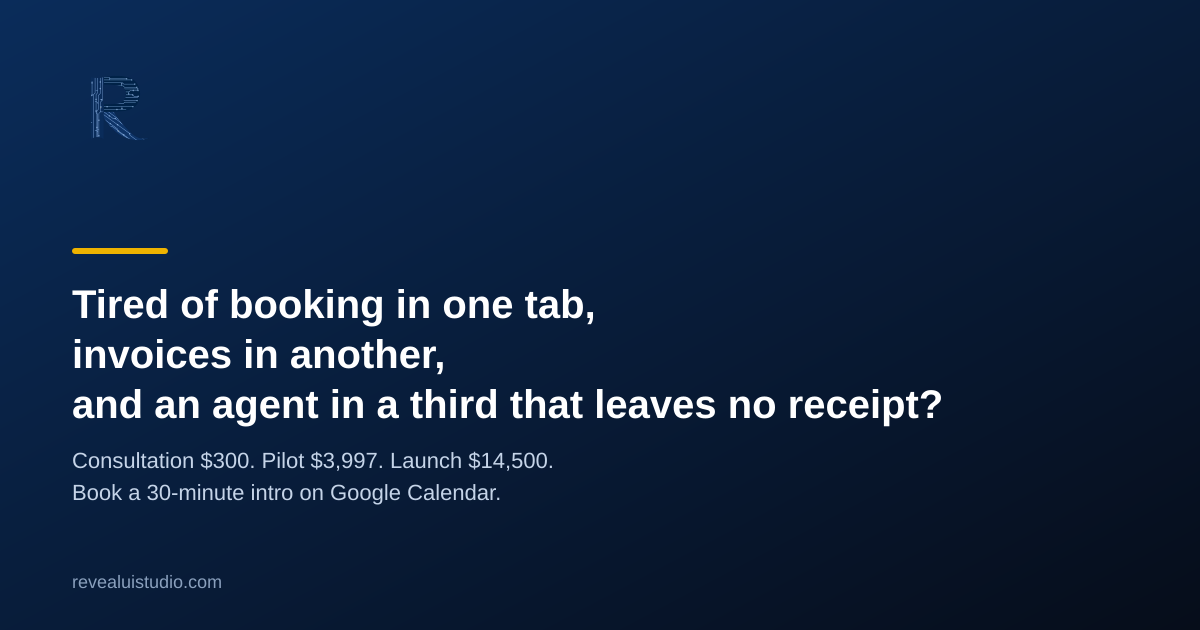
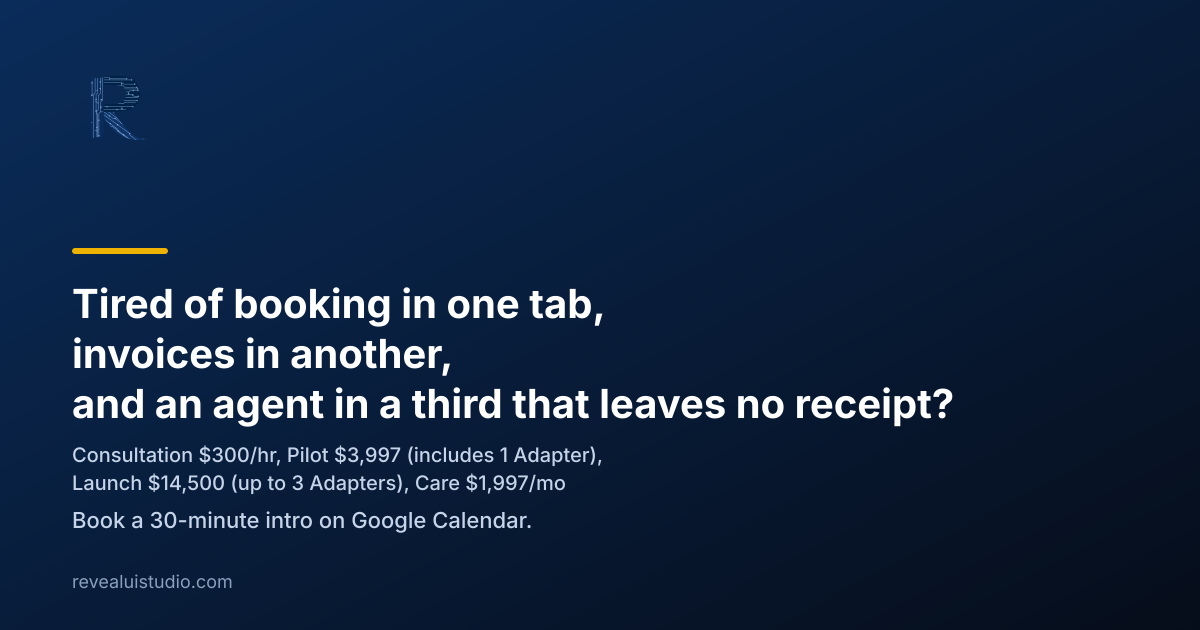
fix(copy): lock the public ladder on the Open Graph card
Regenerate the card from the transparent Circuit-R master. The shop line now matches Consultation, Pilot, Launch, and Care. The launch kit uses categorical terms for a video editor and a booking host, and the Adapter test locks categorical tool names.

Changed region(s): [[0.0617, 0.4524, 0.8017, 0.8444], [0.0617, 0.9048, 0.185, 0.9349]]

diff --git a/app/lib/og-card.ts b/app/lib/og-card.ts
@@ -1,7 +1,7 @@
 /**
  * Copy painted on public/og-card.png.
  *
- * There is no historical OG generator in this repo — only the static card.
+ * There is no historical OG generator in this repo. Only the static card.
  * These lines are the live hero / catalog strings (Hero.tsx + engagements.ts).
  * Do not invent a second headline. scripts/gen-og-card.mjs rasterizes this
  * fixture plus the transparent Circuit-R (public/favicon.svg). public-copy
@@ -10,7 +10,14 @@
  * retired identity copy.
  */
 
-import { CONSULTATION, LAUNCH, PILOT } from '@/lib/engagements';
+import {
+  ADAPTER_INCLUDED_ON_LAUNCH,
+  ADAPTER_INCLUDED_ON_PILOT,
+  CARE,
+  CONSULTATION,
+  LAUNCH,
+  PILOT,
+} from '@/lib/engagements';
 
 /**
  * Raster shop-line on public/og-card.png. Document title / OG title stay the
@@ -21,13 +28,15 @@ export const OG_CARD_HEADLINE =
   'Tired of booking in one tab, invoices in another, and an agent in a third that leaves no receipt?';
 
 /**
- * Locked public SKU line (same sentence as index.html / App.tsx meta).
- * Must stay equal to CONSULTATION + PILOT + LAUNCH names/prices.
+ * Locked public ladder painted on the card.
+ * Proof Sprint is retired and must not appear.
+ * Must stay equal to Consultation, Pilot, Launch, and Care.
  */
-export const OG_CARD_SKU_LINE = 'Consultation $300. Pilot $3,997. Launch $14,500.';
+export const OG_CARD_SKU_LINE =
+  'Consultation $300/hr, Pilot $3,997 (includes 1 Adapter), Launch $14,500 (up to 3 Adapters), Care $1,997/mo';
 
 /** Catalog composition the SKU line must stay equal to. */
-export const OG_CARD_SKU_FROM_OFFERS = `${CONSULTATION.name} ${CONSULTATION.price}. ${PILOT.name} ${PILOT.price}. ${LAUNCH.name} ${LAUNCH.price}.`;
+export const OG_CARD_SKU_FROM_OFFERS = `${CONSULTATION.name} ${CONSULTATION.price}/hr, ${PILOT.name} ${PILOT.price} (includes ${ADAPTER_INCLUDED_ON_PILOT} Adapter), ${LAUNCH.name} ${LAUNCH.price} (up to ${ADAPTER_INCLUDED_ON_LAUNCH} Adapters), ${CARE.name} ${CARE.price}`;
 
 export const OG_CARD_BOOKING_LINE = 'Book a 30-minute intro on Google Calendar.';
 

diff --git a/app/lib/__tests__/engagements.test.ts b/app/lib/__tests__/engagements.test.ts
@@ -5,6 +5,7 @@ import { LAUNCH_PACKAGE_PRICE } from '@revealui/contracts/pricing';
 import { describe, expect, it } from 'vitest';
 import {
   ADAPTER,
+  ADAPTER_CATEGORIES,
   ADAPTER_CENTS,
   ADAPTER_PRICE,
   ADAPTER_ROLE,
@@ -108,10 +109,13 @@ describe('public studio offers', () => {
     expect(ADAPTER.description).toMatch(/while on Care/);
     expect(ADAPTER_ROLE).toMatch(/leak/);
     expect(ADAPTER_ROLE).not.toMatch(/\u2014/);
-    const adapterCopy = `${ADAPTER.description} ${ADAPTER.tagline} ${ADAPTER_ROLE}`;
-    expect(adapterCopy).not.toMatch(
-      /Jobber|Zapier|Stripe|Square|Shopify|Twilio|Calendly|HoneyBook|ServiceTitan|Housecall|QuickBooks|HubSpot|Salesforce/i,
+    expect(ADAPTER_CATEGORIES).toBe(
+      'field-service CRM / estimating / dispatch, gallery / proofing, shopping cart, phone / SMS, calendar, payments / wallets, or labs / fulfillment',
     );
+    expect(ADAPTER.description).toBe(
+      `One custom integration to one tool category (${ADAPTER_CATEGORIES}). Governed read/write where scoped, the agent can act on it, a receipt proves the action, and a short runbook. Pilot includes 1. Launch includes up to 3. List price is for extras, or a scoped add while on Care. Not sold alone.`,
+    );
+    expect(ADAPTER.tagline).toBe('How the leak fix sticks. One tool category.');
   });
 
   it('pins monorepo metrics to MARKETING_METRICS §1 (2026-09-29)', () => {

diff --git a/app/lib/__tests__/public-copy.test.ts b/app/lib/__tests__/public-copy.test.ts
@@ -478,8 +478,11 @@ describe('public copy gates', () => {
     );
     expect(OG_CARD_HEADLINE).not.toBe(HERO_HEADLINE);
     expect(OG_CARD_HEADLINE).not.toBe(HERO_SHOP_LINE);
-    expect(OG_CARD_SKU_LINE).toBe('Consultation $300. Pilot $3,997. Launch $14,500.');
+    expect(OG_CARD_SKU_LINE).toBe(
+      'Consultation $300/hr, Pilot $3,997 (includes 1 Adapter), Launch $14,500 (up to 3 Adapters), Care $1,997/mo',
+    );
     expect(OG_CARD_SKU_LINE).toBe(OG_CARD_SKU_FROM_OFFERS);
+    expect(OG_CARD_SKU_LINE).not.toContain('Proof Sprint');
     expect(OG_CARD_BOOKING_LINE).toBe('Book a 30-minute intro on Google Calendar.');
     expect(OG_CARD_URL).toBe('revealuistudio.com');
     expect(hero).toContain(HERO_HEADLINE);

diff --git a/docs/gap-specs/GAP-433-launch-kit.md b/docs/gap-specs/GAP-433-launch-kit.md
@@ -1,6 +1,6 @@
 # Launch pulse kit — r/selfhosted and Show HN
 
-Owner paste only. Joshua posts both threads under his own name and stays for comments.
+Owner paste only. The author posts both threads under their own name and stays for comments.
 
 Do not post this from a bot, a script, CI, or an agent. Do not merge a promotion off the back of this file.
 
@@ -58,7 +58,7 @@ Do not put these prices in the opening post. The opening post stays on the produ
 - **Care is $1,997/mo, optional, and off the stranger homepage.** Do not name Care. Do not quote $1,997. Do not link a Care checkout. Do not offer it as a follow-on in the thread.
 - Do not mention the domain pack, Stage B, a $297 custom-domain add-on, or any fee waiver.
 - Do not write Pilot, $1,500, or $7,500.
-- Do not mention CapCut or Cal.com. Studio intro booking, if you must point at it, is the Google Calendar intro already on revealuistudio.com.
+- Do not mention a short-form video editor or a third-party booking host. Studio intro booking, if you must point at it, is the Google Calendar intro already on revealuistudio.com.
 - Do not claim SOC 2 certified, SOC 2 ready, SOC 2 compliant, SOC 2 audited, or ISO 27001 certified. Honest line if asked: not certified. A vendor’s report covers the vendor, not RevealUI and not RevealUI Studio.
 - Do not invent customers, logos, revenue, uptime, star counts, download counts, or user counts. There are no paying external customers yet (`docs/WHAT_IS.md`). Say that if someone asks about traction. Do not imply a customer base.
 - Do not claim a phone-home or telemetry number you have not just verified in the tree.
@@ -197,6 +197,6 @@ SSO is an operator preview, not a feature I have walked a customer through. Whit
 - [ ] Neither paste names Care, Pilot, $1,500, $7,500, the domain pack, Stage B, or a waiver.
 - [ ] Neither paste says SOC 2 certified, ready, compliant, or audited.
 - [ ] Neither paste names a customer, a logo, or a traction number.
-- [ ] Neither paste mentions CapCut or Cal.com.
+- [ ] Neither paste mentions a short-form video editor or a third-party booking host.
 - [ ] `PUBLIC_OFFERS` is still Consultation, Pilot, Launch. Adapter stays an add-on.
 - [ ] You are posting from your own Reddit and HN accounts, and you can stay for comments.
